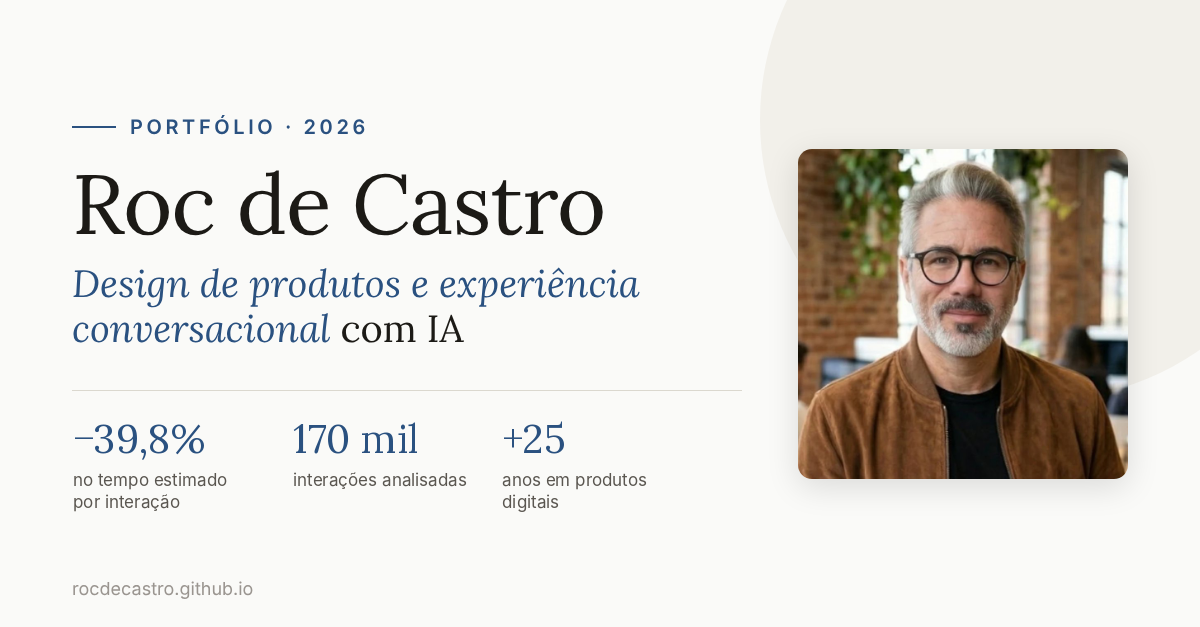
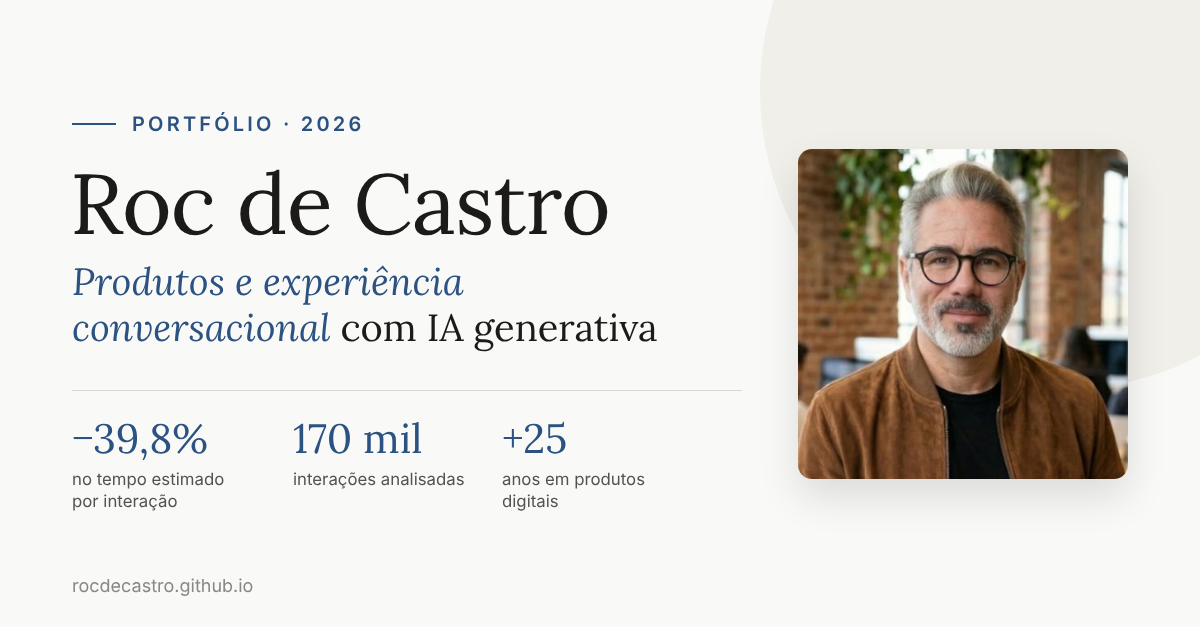
Evals na terceira pergunta de AX; imagens de compartilhamento com a nova linha (v=3)
Claude-Session: https://claude.ai/code/session_01Jw7SSntyTNofmzXvgctpF9

diff --git a/index.html b/index.html
@@ -11,7 +11,7 @@
 <meta property="og:title" content="Roc de Castro · Portfólio de cases de IA generativa no atendimento">
 <meta property="og:description" content="8 cases de 2026: −39,8% no tempo estimado por interação, 170 mil interações analisadas e 3× capacidade na produção de roteiros.">
 <meta property="og:url" content="https://rocdecastro.github.io/">
-<meta property="og:image" content="https://rocdecastro.github.io/og-pt.png?v=2">
+<meta property="og:image" content="https://rocdecastro.github.io/og-pt.png?v=3">
 <meta property="og:image:width" content="1200">
 <meta property="og:image:height" content="627">
 <meta property="og:image:alt" content="Roc de Castro">
@@ -459,7 +459,7 @@
         <div class="ax-card reveal">
           <span class="ax-n">3</span>
           <h3>Como sabemos que funciona?</h3>
-          <p>Curadoria humana e sintética, testes pareados e de regressão antes de cada subida.</p>
+          <p>Curadoria humana e sintética, evals, testes pareados e de regressão antes de cada subida.</p>
           <p class="ax-cases">Cases <a href="#case-01">01</a>, <a href="#case-06">06</a> e <a href="#case-07">07</a></p>
         </div>
       </div>

diff --git a/en/index.html b/en/index.html
@@ -11,7 +11,7 @@
 <meta property="og:title" content="Roc de Castro · Generative AI case portfolio for customer service">
 <meta property="og:description" content="8 cases from 2026: −39.8% estimated time per interaction, 170,000 interactions analyzed and 3× script production capacity.">
 <meta property="og:url" content="https://rocdecastro.github.io/en/">
-<meta property="og:image" content="https://rocdecastro.github.io/og-en.png?v=2">
+<meta property="og:image" content="https://rocdecastro.github.io/og-en.png?v=3">
 <meta property="og:image:width" content="1200">
 <meta property="og:image:height" content="627">
 <meta property="og:image:alt" content="Roc de Castro">
@@ -459,7 +459,7 @@
         <div class="ax-card reveal">
           <span class="ax-n">3</span>
           <h3>How do we know it works?</h3>
-          <p>Human and synthetic curation, paired and regression tests before every release.</p>
+          <p>Human and synthetic curation, evals, paired and regression tests before every release.</p>
           <p class="ax-cases">Cases <a href="#case-01">01</a>, <a href="#case-06">06</a> and <a href="#case-07">07</a></p>
         </div>
       </div>
